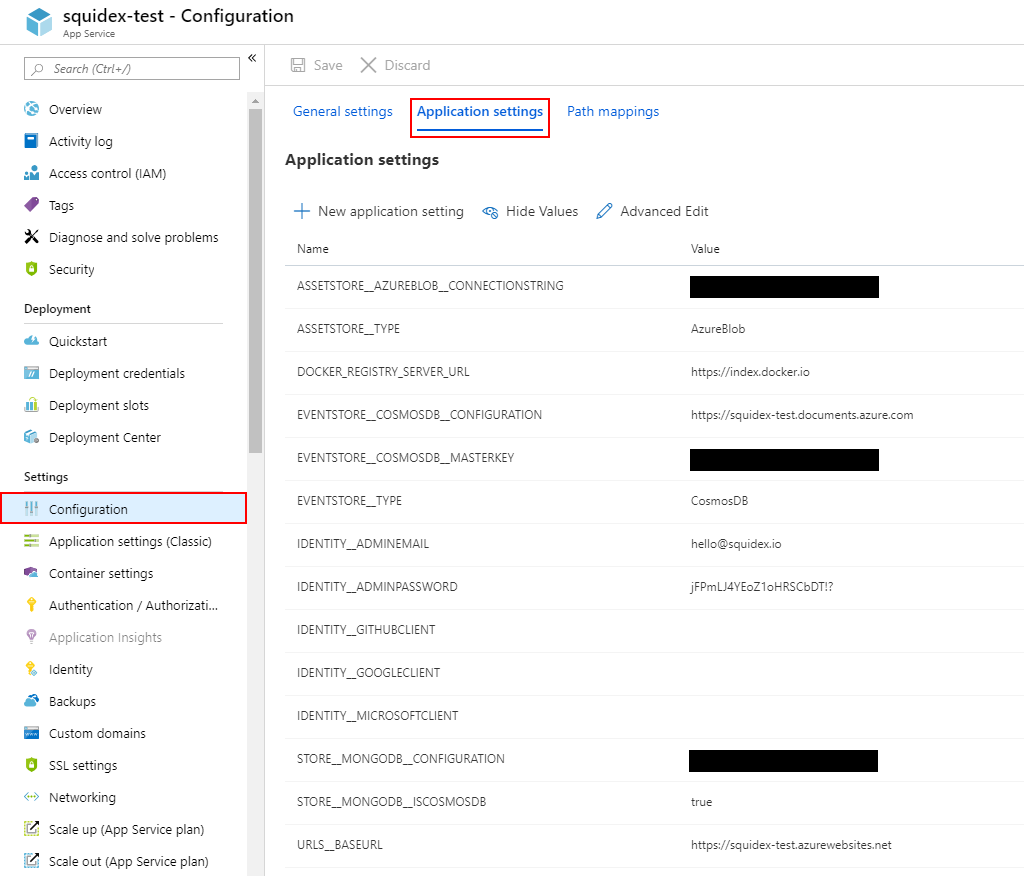
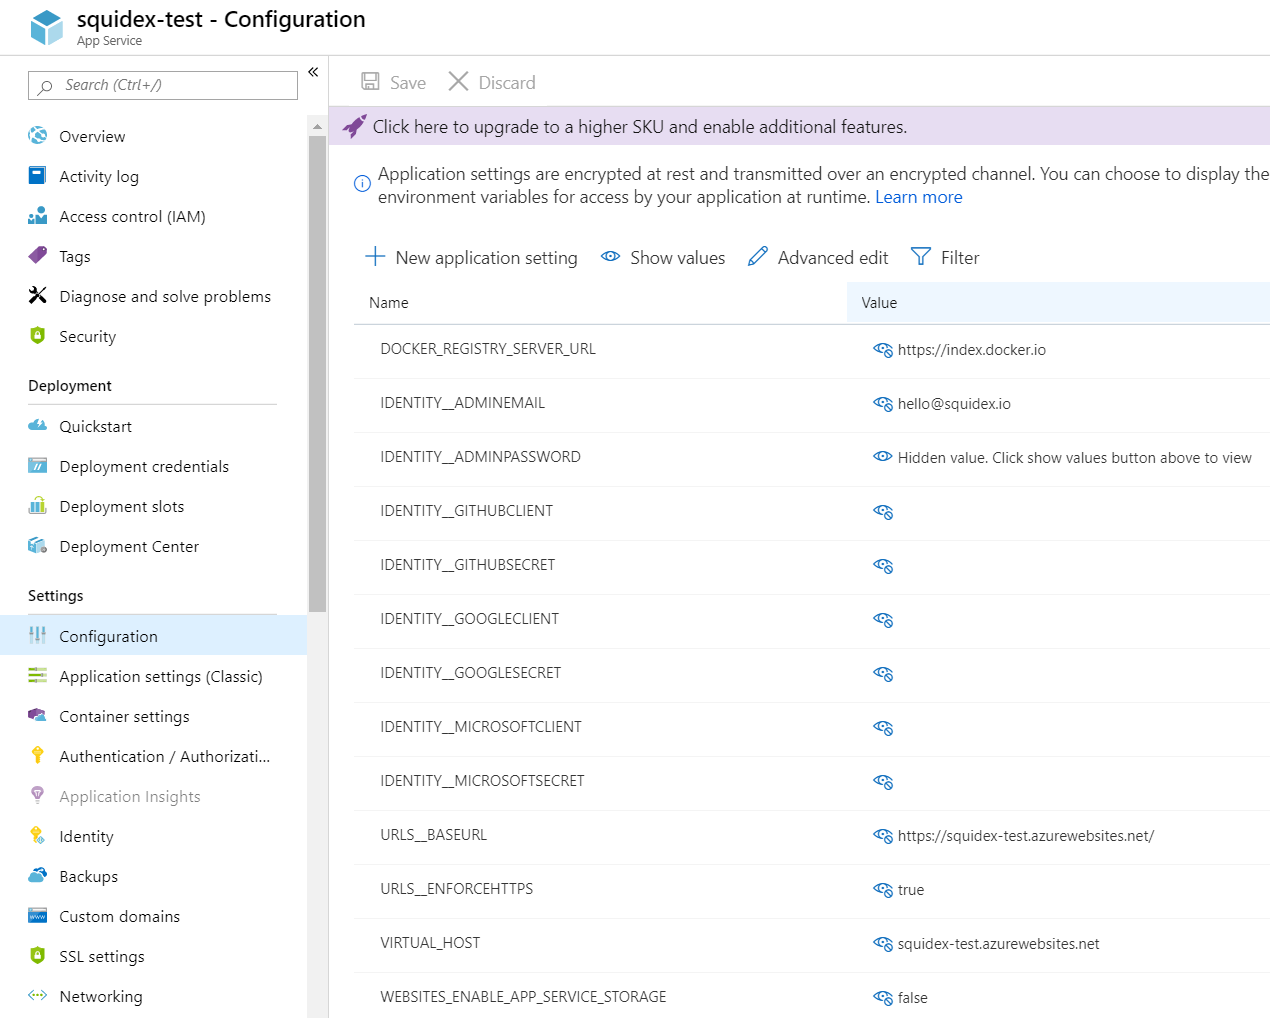
Updated Docs for Azure without CosmosDB

diff --git a/01-getting-started/installation/install-azure.md b/01-getting-started/installation/install-azure.md
@@ -9,80 +9,68 @@ In this tutorial I will also not teach you the basics of Azure. it is a very com
 Before you start you have to setup a few things first:
 
 1. A resource group for all your squidex resources.
-2. A service plan to host squidex.
-3. A CosmosDB instance for your database with all preview features enabled.
-4. A storage account for your assets.
+2. A service plan to host squidex (Linux).
+3. A storage account for your assets and mongo db (general purpose v1 or v2).
 
 ## 1. Create the web app
 
-Just create a new web app and follow the settings from the screenshot:
+You can find the docker-compose configurations for Azure here:
 
-![Create App Service](../../images/started/azure/create-app-service.png)
+> https://github.com/Squidex/squidex-docker/blob/master/standalone
+
+Create a new web app with the following `Basics`:
+
+![Create App Service Basics](../../images/started/azure/create-app-service-basics.png)
+
+Configure the `Docker` tab like this:
+
+![Create App Service Docker](../../images/started/azure/create-app-service-docker.png)
 
 ## 2. Enable logging
 
 In the next step we enable logging. This makes diagnostics easier.
 
-Go to your app service and scroll down to menu item `Diagnostics log` and turn on file logging. You can then use the `log stream` to view all log entries.
+Go to your app service and scroll down to menu item `App Service logs` and turn on file logging. You can then use the `Log stream` to view all log entries.
 
 ![Enable logging](../../images/started/azure/logging.png)
 
-## 3. Configure your application
+## 3. Configure your Storage Account
+
+Go to your storage account instance, choose `Files` and create two file shares.
+
+![Store Account settings](../../images/started/azure/storage.png)
+
+## 4. Configure your application
 
 Go to the `Configuration section` and choose `Application settings` to configure squidex.
 
-> **IMPORANT**: After you change your configuration values you have to restart youir container. In our case the only option was to stop the app service and then start it again. The restart button did not work. Please write a comment if you know a better solution.
+> **IMPORANT**: After you change your configuration values you have to restart your container. In our case the only option was to stop the app service and then start it again. The restart button did not work. Please write a comment if you know a better solution.
 
 ![All configuration values](../../images/started/azure/configuration.png)
 
 Sensitive values are hidden, but configuration values for external authentication providers are empty to turn them off.
 
-### 3.1. How to configure CosmosDB
+## 5. Configure your volumnes
 
-Go to your CosmosDB instance to get the configuration settings:
+Go to the `Configuration section` and choose `Path mappings` to configure volumes.
 
-![Cosmos DB settings](../../images/started/azure/cosmos.png)
+Click `New Azure Storage Mount` and create the following mapping for your assets store.
 
-### 3.2. How to configure Asset Store
+![Assets volume](../../images/started/azure/create-asset-volume.png)
 
-Go to your storage account instance to get the configuration settings:
+Click `New Azure Storage Mount` and create the following mapping for your mongo db store.
 
-![Asset Store settings](../../images/started/azure/storage.png)
+![MongoDb volume](../../images/started/azure/create-mongodb-volume.png)
 
-### 3.3. All settings
+## 6. All settings
 
 All basic settings:
 
 ```json
 [
   {
-    "name": "ASSETSTORE__AZUREBLOB__CONNECTIONSTRING",
-    "value": "[ADD YOUR VALUE HERE]",
-    "slotSetting": false
-  },
-  {
-    "name": "ASSETSTORE__TYPE",
-    "value": "AzureBlob",
-    "slotSetting": false
-  },
-  {
     "name": "DOCKER_REGISTRY_SERVER_URL",
     "value": "https://index.docker.io",
-    "slotSetting": false
-  },
-  {
-    "name": "EVENTSTORE__COSMOSDB__CONFIGURATION",
-    "value": "[ADD YOUR VALUE HERE]",
-    "slotSetting": false
-  },
-  {
-    "name": "EVENTSTORE__COSMOSDB__MASTERKEY",
-    "value": "[ADD YOUR VALUE HERE]",
-    "slotSetting": false
-  },
-  {
-    "name": "EVENTSTORE__TYPE",
-    "value": "CosmosDB",
     "slotSetting": false
   },
   {
@@ -101,7 +89,17 @@ All basic settings:
     "slotSetting": false
   },
   {
+    "name": "IDENTITY__GITHUBSECRET",
+    "value": "",
+    "slotSetting": false
+  },
+  {
     "name": "IDENTITY__GOOGLECLIENT",
+    "value": "",
+    "slotSetting": false
+  },
+  {
+    "name": "IDENTITY__GOOGLESECRET",
     "value": "",
     "slotSetting": false
   },
@@ -111,17 +109,22 @@ All basic settings:
     "slotSetting": false
   },
   {
-    "name": "STORE__MONGODB__CONFIGURATION",
-    "value": "[ADD YOUR VALUE HERE]",
-    "slotSetting": false
-  },
-  {
-    "name": "STORE__MONGODB__ISCOSMOSDB",
-    "value": "true",
+    "name": "IDENTITY__MICROSOFTSECRET",
+    "value": "",
     "slotSetting": false
   },
   {
     "name": "URLS__BASEURL",
+    "value": "[ADD YOUR VALUE HERE]",
+    "slotSetting": false
+  },
+  {
+    "name": "URLS__ENFORCEHTTPS",
+    "value": "true",
+    "slotSetting": false
+  },
+  {
+    "name": "VIRTUAL_HOST",
     "value": "[ADD YOUR VALUE HERE]",
     "slotSetting": false
   },
